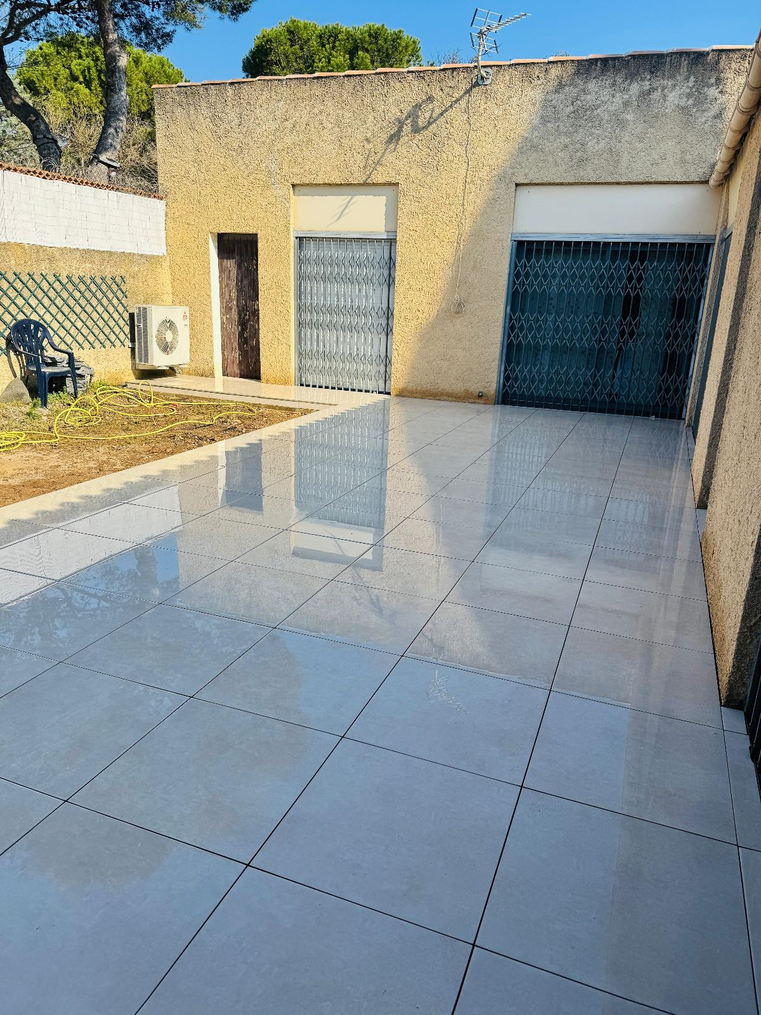
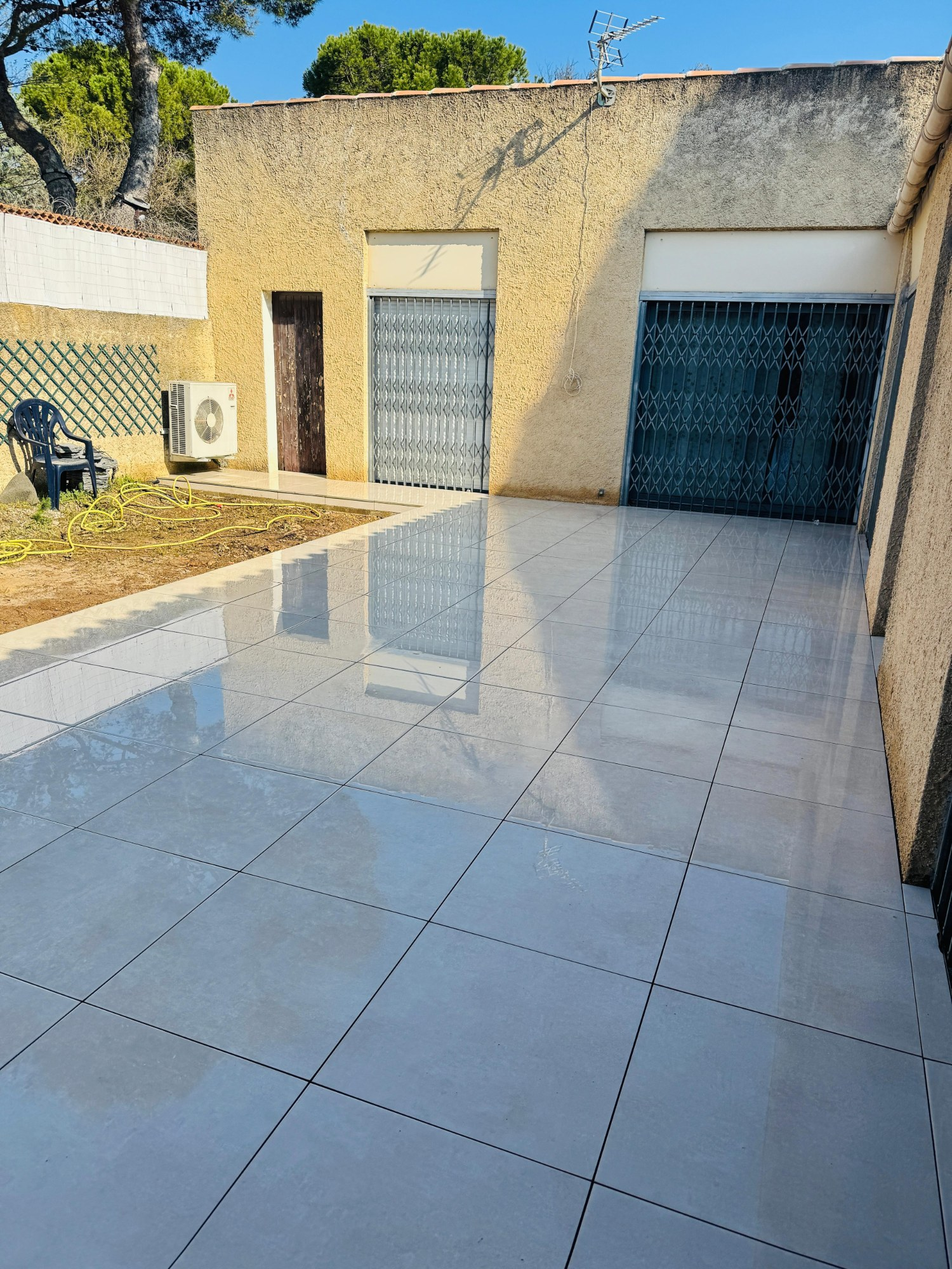
Photos : ré-encodage haute qualité (moins de grain) + diaporama à 2 s
- Toutes les photos ré-encodées depuis les originaux (1500px, qualité
  0,88) : disparition du grain de compression, surtout visible dans le hero
- Diaporama du hero accéléré à 2 s, fondu ajusté à 0,7 s

Claude-Session: https://claude.ai/code/session_01LsU6zSuxvzmfhapLFZv9Fe

Changed region(s): [[0.0, 0.0, 1.0, 0.5], [0.925, 0.1875, 1.0, 0.6875]]

diff --git a/vitrine/css/style.css b/vitrine/css/style.css
@@ -173,7 +173,7 @@ ul { margin: 0; padding: 0; }
 }
 .hero-slide {
   position: absolute; inset: 0; width: 100%; height: 100%; object-fit: cover;
-  opacity: 0; transition: opacity 1s ease;
+  opacity: 0; transition: opacity .7s ease;
 }
 .hero-slide.is-active { opacity: 1; }
 .hero-eyebrow { text-transform: uppercase; letter-spacing: 2px; font-size: .8rem; font-weight: 700; color: var(--accent-light); margin: 0 0 10px; }

diff --git a/vitrine/js/main.js b/vitrine/js/main.js
@@ -259,7 +259,7 @@
         slides[idx].classList.remove('is-active');
         idx = (idx + 1) % slides.length;
         slides[idx].classList.add('is-active');
-      }, 4500);
+      }, 2000);
     }
   }
 
